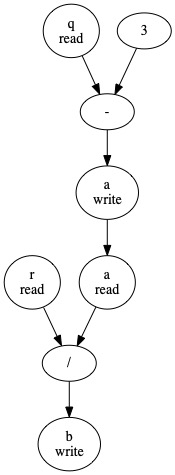
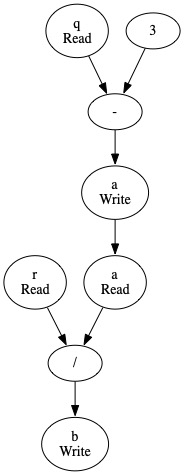
first version of new simulator

diff --git a/src/simulate.py b/src/simulate.py
@@ -1,0 +1,105 @@
+from schedule import schedule
+from hls import HardwareModel
+from cfg.ast_utils import ASTUtils
+import ast
+import hls
+
+data = {}
+cycles = 0
+main_cfg = None
+
+def func_calls(expr, calls):
+    if type(expr) == ast.Call:
+        calls.append(expr.func.id)
+    for sub_expr in ASTUtils.get_sub_expr(expr):
+        func_calls(sub_expr, calls)
+
+def get_hw_need(state):
+    hw_need = HardwareModel(0,0)
+    for op in state:
+        if op.operation == 'Read' or op.operation == 'Write': hw_need.hw_allocated['Regs'] += 1
+        else: hw_need.hw_allocated[op.operation] += 1
+    return hw_need.hw_allocated
+
+def cycle_sim(hw_inuse, max_cycles):
+    global cycles, data
+    for i in range(max_cycles):
+        for elem in hw_inuse:
+            for j in range(len(hw_inuse[elem])):
+                if hw_inuse[elem][j] > 0:
+                    hw_inuse[elem][j] = max(0, hw_inuse[elem][j] - 1)
+        # save current state of hardware to data array
+        cur_data = ""
+        for elem in hw_inuse:
+            if len(hw_inuse[elem]) > 0:
+                cur_data += elem + ": "
+                count = 0
+                for i in hw_inuse[elem]:
+                    if i > 0:
+                        count += 1
+                cur_data += str(count) + "/" + str(len(hw_inuse[elem])) + " in use. || "
+        data[cycles] = cur_data
+
+        print("This is after cycle " + str(cycles))
+        print(hw_inuse)
+        print("")
+        cycles += 1
+
+def simulate(cfg, node_operations, hw_spec, first):
+    global main_cfg
+    cur_node = cfg.entryblock
+    if first: 
+        cur_node = cur_node.exits[0].target # skip over the first node in the main cfg
+        main_cfg = cfg
+    hw_inuse = {}
+    for elem in hw_spec:
+        hw_inuse[elem] = [0] * hw_spec[elem]
+    print(hw_inuse)
+
+    while True:
+        # find any function calls in the statement and step into them before we continue in the current function
+        # change this implementation once dfg_algo has support for function calls
+        for statement in cur_node.statements:
+            calls = []
+            func_calls(statement, calls)
+            if len(calls) != 0:
+                for call in calls[::-1]:
+                    simulate(main_cfg.functioncfgs[call], node_operations, hw_spec, False)
+        for state in node_operations[cur_node]:
+            hw_need = get_hw_need(state)
+            print(hw_need)
+            max_cycles = 0
+            for elem in hw_need:
+                cur_elem_count = hw_need[elem]
+                if cur_elem_count == 0: continue
+                if hw_spec[elem] < cur_elem_count: # this is just a basic condition, it might not work for every case
+                    raise Exception("hardware specification insufficient to run program")
+                cur_cycles_needed = cur_elem_count * hls.latency[elem]
+                print("cycles needed for " + elem + ": " + str(cur_cycles_needed))
+                max_cycles = max(cur_cycles_needed, max_cycles)
+                i = 0
+                while cur_cycles_needed > 0:
+                    hw_inuse[elem][i] += hls.latency[elem]
+                    i = (i + 1) % hw_spec[elem]
+                    cur_cycles_needed -= hls.latency[elem]
+            cycle_sim(hw_inuse, max_cycles)
+        if len(cur_node.exits) != 0:
+            # dumb version, just take the first exit node each time
+            cur_node = cur_node.exits[0].target
+        else:
+            break
+    return cycles, data
+
+def main():
+    cfg, graphs, node_operations = schedule()
+    hw = HardwareModel(0, 0)
+    hw.hw_allocated['Add'] = 2
+    hw.hw_allocated['Regs'] = 5
+    hw.hw_allocated['Mult'] = 1
+    hw.hw_allocated['Sub'] = 1
+    hw.hw_allocated['FloorDiv'] = 1
+    hw.hw_allocated['Gt'] = 1
+    simulate(cfg, node_operations, hw.hw_allocated, first=True)
+
+if __name__ == '__main__':
+    main()

diff --git a/src/dfg_algo.py b/src/dfg_algo.py
@@ -24,8 +24,9 @@ class symbol:
         self.write = write
 
 class Node:
-    def __init__(self, value: str):
+    def __init__(self, value: str, operation: str):
         self.value = value
+        self.operation = operation
         self.children = []
         self.parents = []
         self.order = 0
@@ -37,7 +38,7 @@ class Graph:
 
 def process_operand(graph, cur_id, operand, operand_num, operation_num, node):
     if type(operand) == ast.Name:
-        make_node(graph, node, operand_num, operand.id, '\nread')
+        make_node(graph, node, operand_num, operand.id, 'Read')
         make_edge(graph, node, operand_num, operation_num)
         node_to_symbols[node].append(symbol(operand.id, operand_num, False))
     elif type(operand) == ast.BinOp:
@@ -54,8 +55,9 @@ def eval_single_op(expr, graph, cur_id, target_id, value_ids, op_id, node):
     global op_to_symbol, node_to_symbols
     sub_values = ASTUtils.get_sub_expr(expr)
     #print(sub_values)
-    op_node = Node(op_to_symbol[ASTUtils.operator_to_opname(sub_values[1])])
-    graph.node(op_id, op_to_symbol[ASTUtils.operator_to_opname(sub_values[1])])
+    op_name = ASTUtils.operator_to_opname(sub_values[1])
+    op_node = Node(op_to_symbol[op_name], op_name)
+    graph.node(op_id, op_to_symbol[op_name])
     graphs[node].id_to_Node[op_id] = op_node
     graphs[node].roots.add(op_node)
     cur_id = process_operand(graph, cur_id, sub_values[0], value_ids[0], op_id, node)
@@ -76,7 +78,7 @@ def eval_expr(expr, graph, cur_id, node):
     target_id = str(cur_id)
     cur_id += 1
     op_id, value_ids, cur_id = set_ids(cur_id)
-    make_node(graph, node, target_id, target.id, '\nwrite')
+    make_node(graph, node, target_id, target.id, 'Write')
     if type(expr) == ast.Assign:
         #still have to add support for multiple assignments
         if type(expr.value) == ast.BinOp:
@@ -89,8 +91,8 @@ def eval_expr(expr, graph, cur_id, node):
 
 # node for a non-literal
 def make_node(graph, cfg_node, id, name, annotation):
-    dfg_node = Node(name)
-    graph.node(id, name + annotation)
+    dfg_node = Node(name, annotation)
+    graph.node(id, name + '\n' + annotation)
     graphs[cfg_node].roots.add(dfg_node)
     graphs[cfg_node].id_to_Node[id] = dfg_node
 

diff --git a/src/schedule.py b/src/schedule.py
@@ -1,10 +1,10 @@
 from dfg_algo import main_fn
 from collections import deque
-
+# format: cfg_node -> {states -> operations}
 node_operations = {}
 operation_sets = {}
 
-def main():
+def schedule():
     cfg, graphs = main_fn()
     for node in cfg:
         node_operations[node] = []
@@ -25,9 +25,10 @@ def main():
             node_operations[node][cur_node.order].append(cur_node)
         for state in node_operations[node]:
             for op in state:
-                print(op.order, op.value)
+                print(op.order, op.operation)
             print('')
+    return cfg, graphs, node_operations
         
 
 if __name__ == '__main__':
-    main()
+    schedule()
